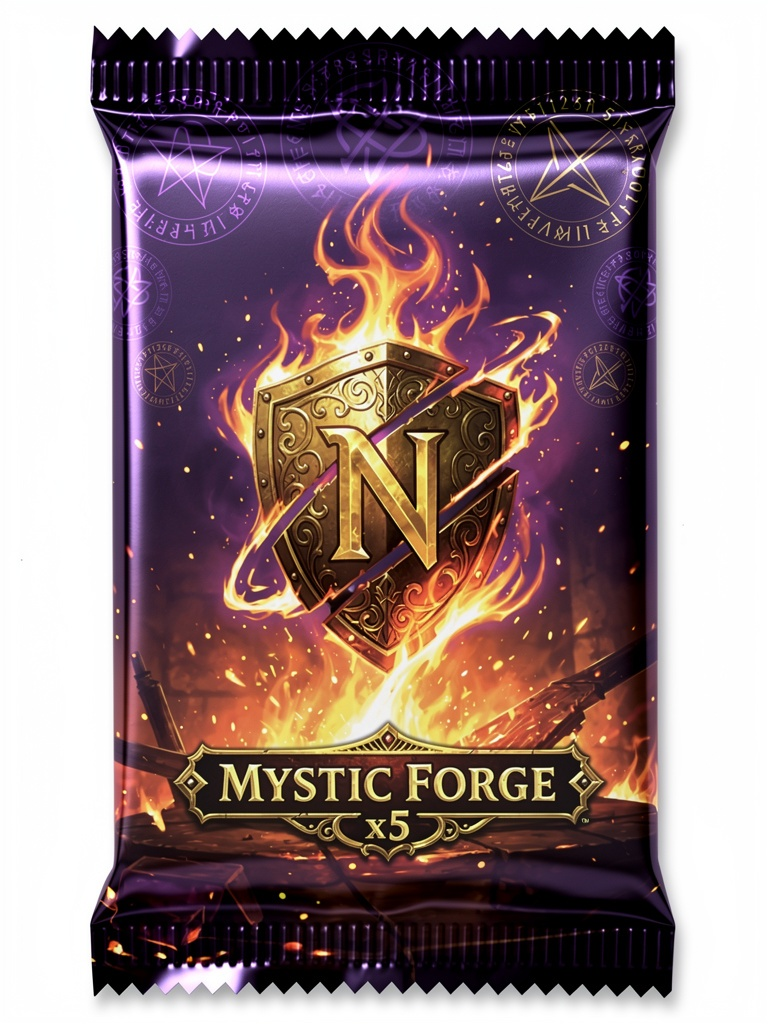
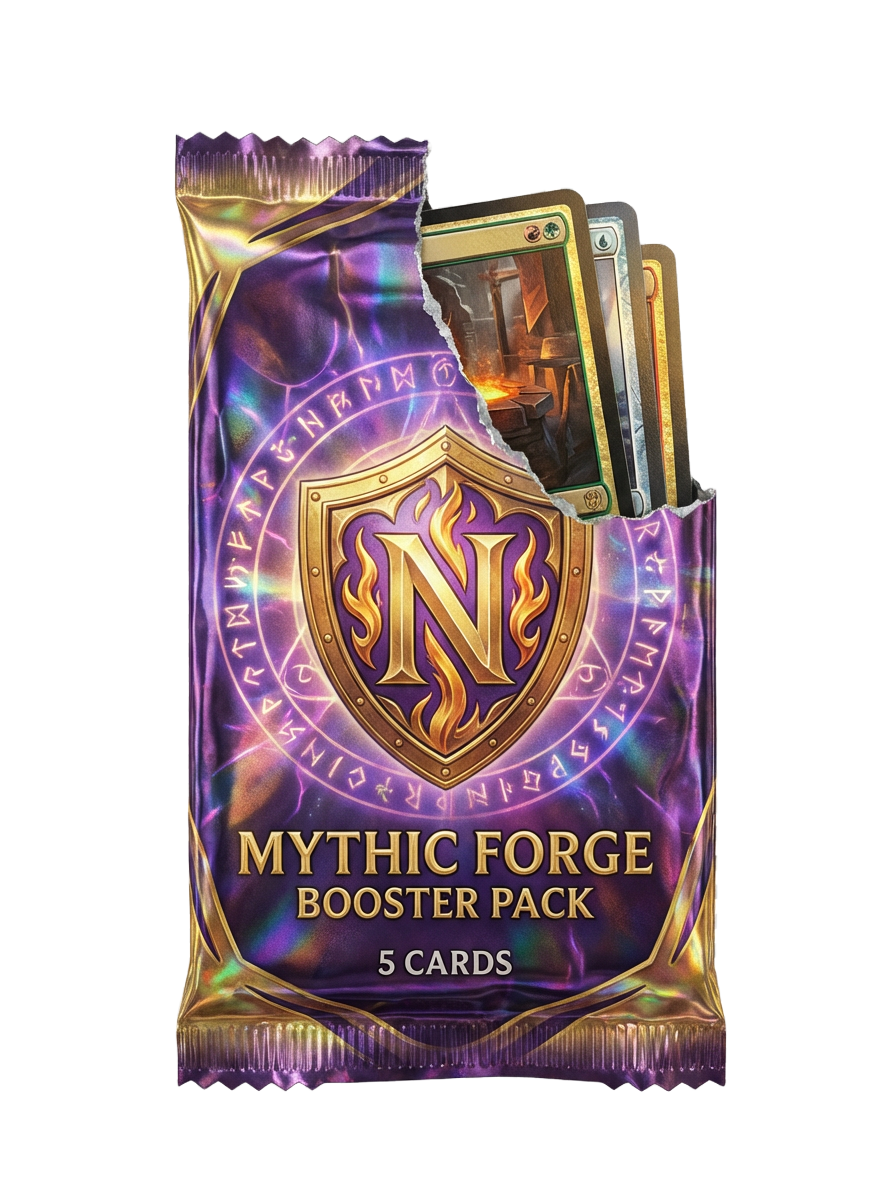
🎴 TRANSPARENT PACK IMAGES: Clean cutout, no background
- Generated new pack images with background removed
- Pack images now transparent PNG with clean edges
- Using object-fit: contain to show full pack shape
- Removed border/overflow from pack container
- Using drop-shadow filter for glow effects

Pack images:
- pack-single.png (1.55 MB)
- pack-multi5.png (1.70 MB)
- pack-mega10.png (1.65 MB)

diff --git a/public/forge.html b/public/forge.html
@@ -2752,8 +2752,9 @@ function createPackBag(cardCount, highestRarity) {
     const packImage = PACK_CONFIG.getImage(cardCount);
     
     // ========================================
+    // ========================================
     // FULL BLEED PACK - EXACT SAME SIZE AS CARD REVEAL
-    // No separate seal - the image itself has the torn top look
+    // Transparent PNG - no border, no overflow hidden
     // ========================================
     packEl.style.cssText = `
         position: relative;
@@ -2765,23 +2766,17 @@ function createPackBag(cardCount, highestRarity) {
         transform-style: preserve-3d;
         transform: rotateX(5deg) scale(1);
         transition: transform 0.3s ease;
-        border-radius: ${PACK_CONFIG.BORDER_RADIUS};
-        overflow: hidden;
     `;
     
-    // Main pack image - FULL BLEED
+    // Main pack image - TRANSPARENT PNG, CONTAIN to show full pack
     const packImg = document.createElement('div');
     packImg.className = 'pack-image';
     packImg.style.cssText = `
         position: absolute;
         inset: 0;
-        background: url(${packImage}) center/cover no-repeat;
-        border-radius: ${PACK_CONFIG.BORDER_RADIUS};
-        box-shadow: 
-            0 20px 40px rgba(0,0,0,0.7),
-            0 0 ${glowSize} ${glowColor},
-            inset 0 0 30px rgba(255,215,0,0.1);
-        border: 3px solid #ffd700;
+        background: url(${packImage}) center/contain no-repeat;
+        filter: drop-shadow(0 10px 30px rgba(0,0,0,0.6)) 
+                drop-shadow(0 0 ${glowSize} ${glowColor});
     `;
     
     // Glossy overlay for 3D effect
